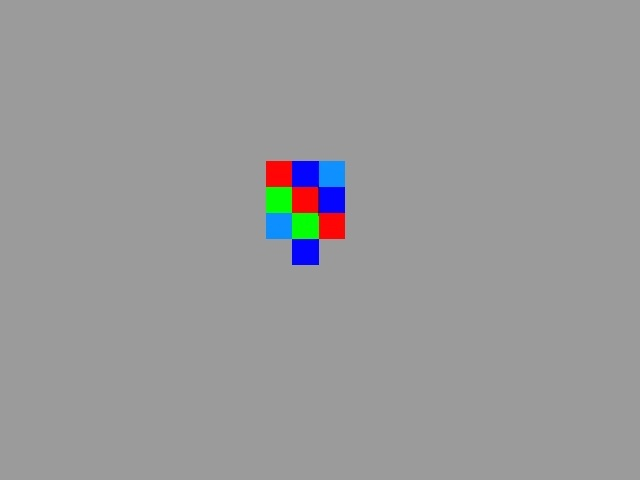
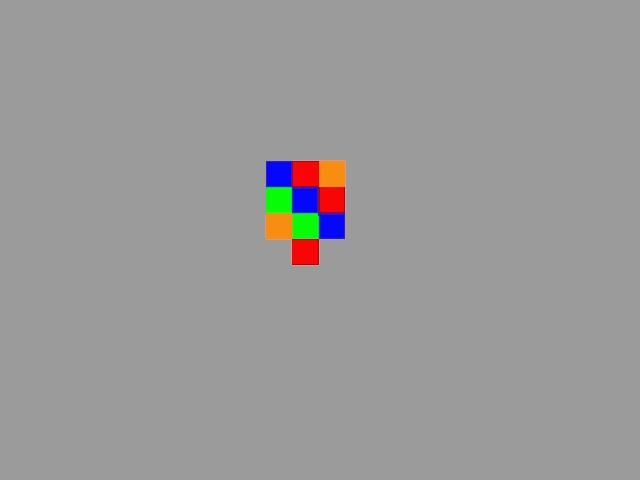
clustering actually working somewhat

Changed region(s): [[0.4062, 0.3125, 0.5625, 0.5625]]

diff --git a/src/generate_schematic/src/generate_schematic.py b/src/generate_schematic/src/generate_schematic.py
@@ -16,8 +16,11 @@ def main():
 
     img = g.get_image(IMAGE_IN_PATH)
     NUM_CLUSTERS = 11
-    segmented = g.segment(img, segmentation_method=Segmentation.cluster_segment, n_clusters=NUM_CLUSTERS)
+    segmented, clustered_segments = g.segment(img, segmentation_method=Segmentation.cluster_segment, n_clusters=NUM_CLUSTERS)
+    for i, segment in enumerate(clustered_segments):
+        g.save_image(segment, IMAGE_OUT_NAME + "_" + str(i) + ".jpg")
     # segmented = (segmented * (255 / (NUM_CLUSTERS-1))).astype(np.uint8)
+    # segmented = g.segment(img, segmentation_method=Segmentation.edge_detect_canny)
     g.save_image(segmented, IMAGE_OUT_NAME)
 
 
@@ -67,7 +70,7 @@ class GenerateSchematic:
             segmentation_method = Segmentation.edge_detect_canny
 
         return segmentation_method(img, **kwargs)
-    
+
 
 class Segmentation:
 
@@ -88,8 +91,13 @@ class Segmentation:
             gray_img with edges outlined
         """
         gray_img = cv2.cvtColor(img, cv2.COLOR_BGR2GRAY)
-        edges = cv2.Canny(gray_img, min_val, max_val)
+        sigma = .33
+        v = np.median(gray_img)
 
+        #---- apply automatic Canny edge detection using the computed median----
+        lower = int(max(0, (1.0 - sigma) * v))
+        upper = int(min(255, (1.0 + sigma) * v))
+        edges = cv2.Canny(gray_img, lower, upper)
         return edges
 
     @staticmethod
@@ -110,25 +118,43 @@ class Segmentation:
         ndarray
             clusters of gray_img represented with similar pixel values
         """
+        originalImage = cv2.cvtColor(img, cv2.COLOR_BGR2RGB)
+        reshapedImage = np.float32(originalImage.reshape(-1, 3))
+        stopCriteria = (cv2.TERM_CRITERIA_EPS + cv2.TERM_CRITERIA_MAX_ITER, 100, 0.1)
+        ret, labels, clusters = cv2.kmeans(reshapedImage, n_clusters, None, stopCriteria, 10, cv2.KMEANS_RANDOM_CENTERS)
+        print("labels", np.bincount(labels.flatten()))
+        print("ret", ret)
+        print("clusters", clusters.shape)
+        clusters = np.uint8(clusters)
+        intermediateImage = clusters[labels.flatten()]
+        clusteredImage = intermediateImage.reshape((originalImage.shape))
+
+        clusteredSegments = []
+        for i in range(n_clusters):
+            new_image = reshapedImage * (labels == i)
+            new_image = new_image.reshape((originalImage.shape))
+            clusteredSegments.append(new_image)
+        return clusteredImage, clusteredSegments
         # Downsample img by a factor of 2 first using the mean to speed up K-means
         # img_d = cv2.resize(img, dsize=(img.shape[1]/2, img.shape[0]/2), interpolation=cv2.INTER_NEAREST)
-        img_d = img
-
-        # first convert our 3-dimensional img_d array to a 2-dimensional array
-        # whose shape will be (length * width, number of channels) hint: use img_d.shape
-        img_r = np.reshape(img_d, (img_d.shape[0] * img_d.shape[1], img_d.shape[2]))
-        
-        # Fit the k-means algorithm on this reshaped array img_r using the the do_kmeans function defined above.
-        clusters = Segmentation._do_kmeans(img_r, n_clusters)
-
-        # reshape this clustered image to the original downsampled image (img_d) shape
-        cluster_img = np.reshape(img_r, img_d.shape)
-
-        # Upsample the image back to the original image (img) using nearest interpolation
+        # # img_d = img
+        #
+        # # first convert our 3-dimensional img_d array to a 2-dimensional array
+        # # whose shape will be (length * width, number of channels) hint: use img_d.shape
+        # img_r = np.reshape(img_d, (img_d.shape[0] * img_d.shape[1], img_d.shape[2]))
+        #
+        # # Fit the k-means algorithm on this reshaped array img_r using the the do_kmeans function defined above.
+        # clusters = Segmentation._do_kmeans(img_r, n_clusters)
+        # print(clusters.shape)
+        # # reshape this clustered image to the original downsampled image (img_d) shape
+        # cluster_img = np.reshape(img_r, img_d.shape)
+        #
+        # # Upsample the image back to the original image (img) using nearest interpolation
         # img_u = cv2.resize(src=cluster_img, dsize=(img.shape[1], img.shape[0]), interpolation=cv2.INTER_NEAREST)
-        img_u = cluster_img
-
-        return img_u.astype(np.uint8)
+        # # img_u = cluster_img
+        #
+        # # return img_u.astype(np.uint8)
+        # return cluster_img
 
     #----------------------------------------------------------------------------------------------
     # Helpers
@@ -145,11 +171,11 @@ class Segmentation:
         Returns:
             clusters: integer array of length n_datapoints. clusters[i] is
             a number in range(n_clusters) specifying which cluster data[i]
-            was assigned to. 
+            was assigned to.
         """
         criteria = (cv2.TERM_CRITERIA_EPS + cv2.TERM_CRITERIA_MAX_ITER, 100, 0.2)
         _, clusters, centers = kmeans = cv2.kmeans(data.astype(np.float32), n_clusters, bestLabels=None, criteria=criteria, attempts=1, flags=cv2.KMEANS_RANDOM_CENTERS)
-
+        print(centers)
         return clusters
 
 
